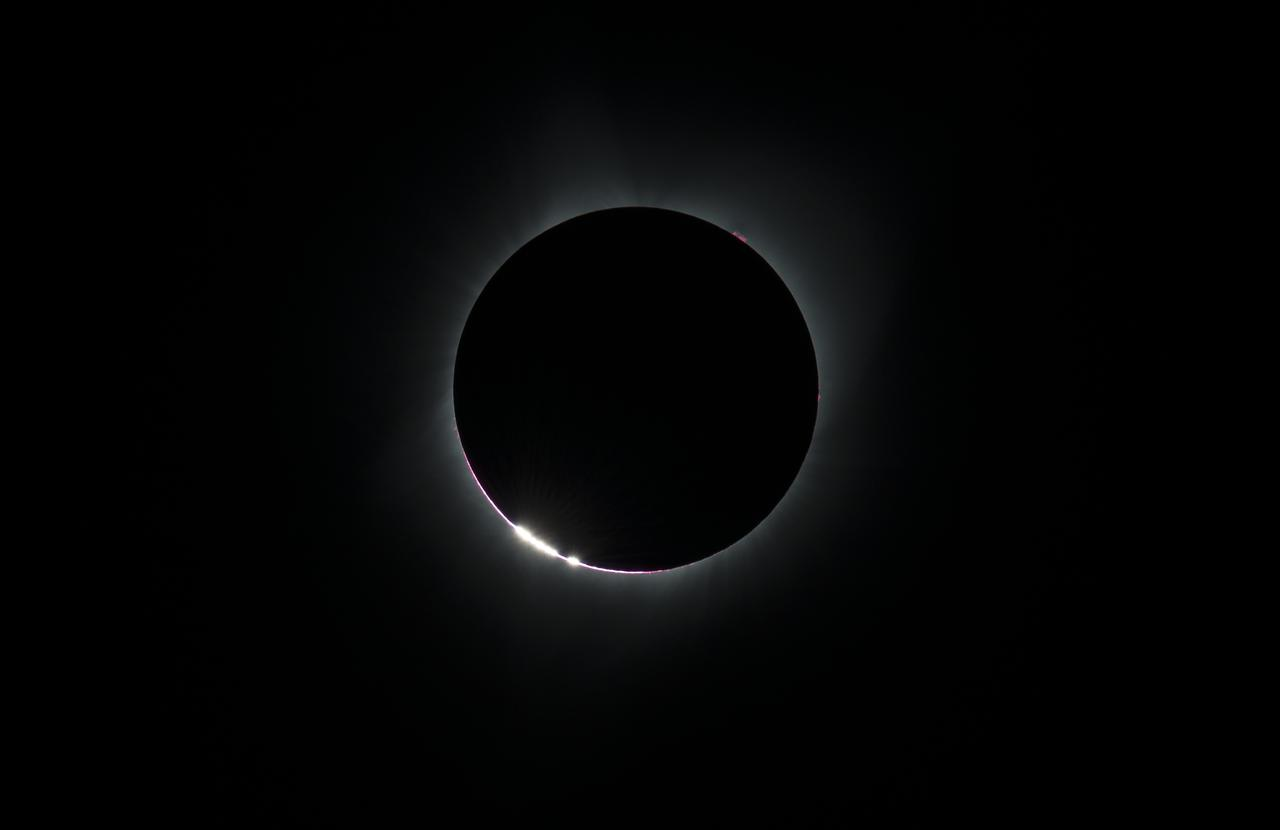
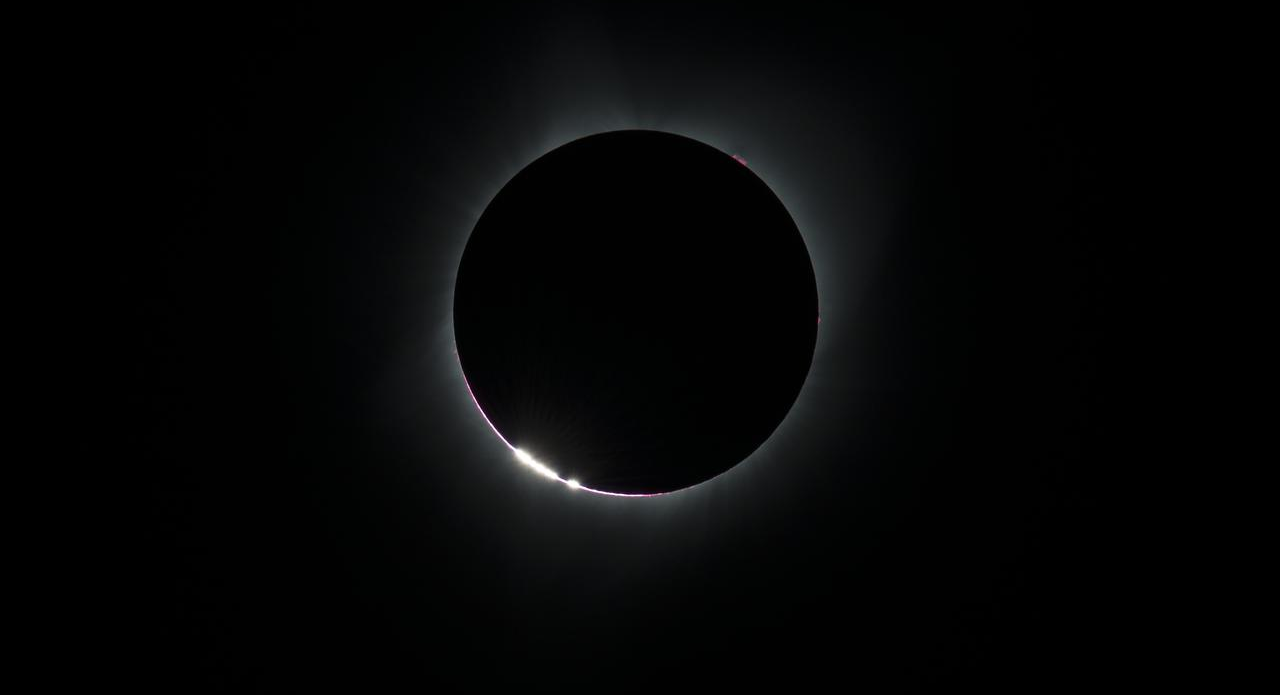
Ajustes CSS

Changed region(s): [[0.3438, 0.1511, 0.6562, 0.423], [0.375, 0.6043, 0.5938, 0.7554], [0.5938, 0.6043, 0.625, 0.6345]]

diff --git a/src/pages/index.jsx b/src/pages/index.jsx
@@ -1,5 +1,7 @@
 import Head from "next/head";
 import styled from "styled-components";
+import Image from "next/image";
+import Link from "next/link";
 
 export default function Home() {
   return (
@@ -14,16 +16,38 @@ export default function Home() {
           <p>Desvendando o Universo com a NASA: Explorações Cósmicas, Pesquisas Avançadas <br /> e Fascinantes Descobertas Astronômicas para Iluminar o Nosso Conhecimento Celestial</p>
 
           <button className="botaoDestaque">Leia mais</button>
+
+          <section className="mini-noticias">
+            <hr />
+            <p>geral</p>
+            <h3>
+              Historia do Eclipse 
+              <Link href="/">
+              <Image
+               className="botaoSeta"
+               src="/images/botao-seta.svg"
+               width={23} height={23}
+               alt="Botão com uma seta" 
+              />
+              </Link>
+            </h3>
+          </section>
+
         </StyledSection>
+
+        <StyledHr>
+          <p>geral</p>
+          <h3>eclipse history</h3>
+        </StyledHr>
     </>
   );
 }
 
 const StyledSection = styled.section`
   color: #ffffff;
-  background-image: url("images/nasa-eclipse.png");
+  background-image: url("images/nasa-eclipse2.png");
   background-size: cover;
-  height: 90vh;
+  height: 95vh;
   background-repeat: no-repeat;
   padding: 0 0 0 2rem;
 
@@ -50,4 +74,33 @@ const StyledSection = styled.section`
     font-weight: bold;
     font-size: 18px;
   }
+
+  hr {
+  border: none;
+  height: 1px;
+  width: 22rem;
+  background: rgba(255, 255, 255, 0.3);  
+  margin: 5rem 0 0 0;
+}
+
+.mini-noticias p {
+  font-family: Verdana, Geneva, Tahoma, sans-serif;
+  letter-spacing: 3.5px;
+  font-size: .7rem;
+  line-height: 2rem;
+  text-transform: uppercase;
+}
+
+.mini-noticias h3 {
+  display: flex;
+  align-items: center;
+}
+
+.botaoSeta {
+  margin: 0.5rem 0 0 1rem;
+}
+`;
+
+const StyledHr = styled.section`
+
 `;

diff --git a/src/components/Cabecalho.jsx b/src/components/Cabecalho.jsx
@@ -48,6 +48,7 @@ const StyledHeader = styled.header`
 
   .logo {
     display: flex;
+    padding: 1rem 0 0 20rem;
     align-items: center;
     margin: 0;
   }

diff --git a/src/styles/globals.css b/src/styles/globals.css
@@ -1,4 +1,5 @@
 @import url("https://fonts.googleapis.com/css2?family=Fjalla+One&family=Roboto&display=swap");
+
 *,
 *::after,
 *::before {
